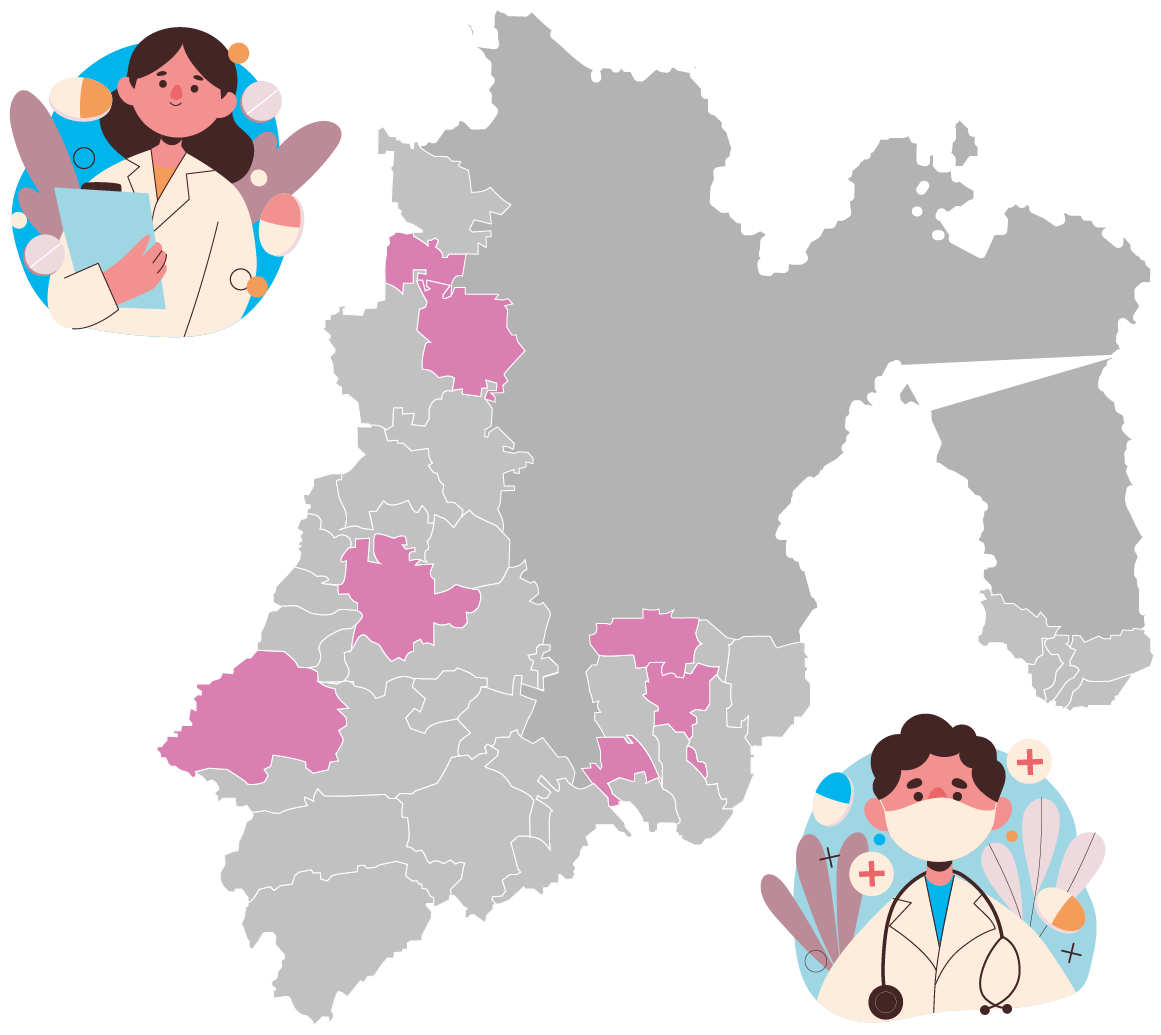
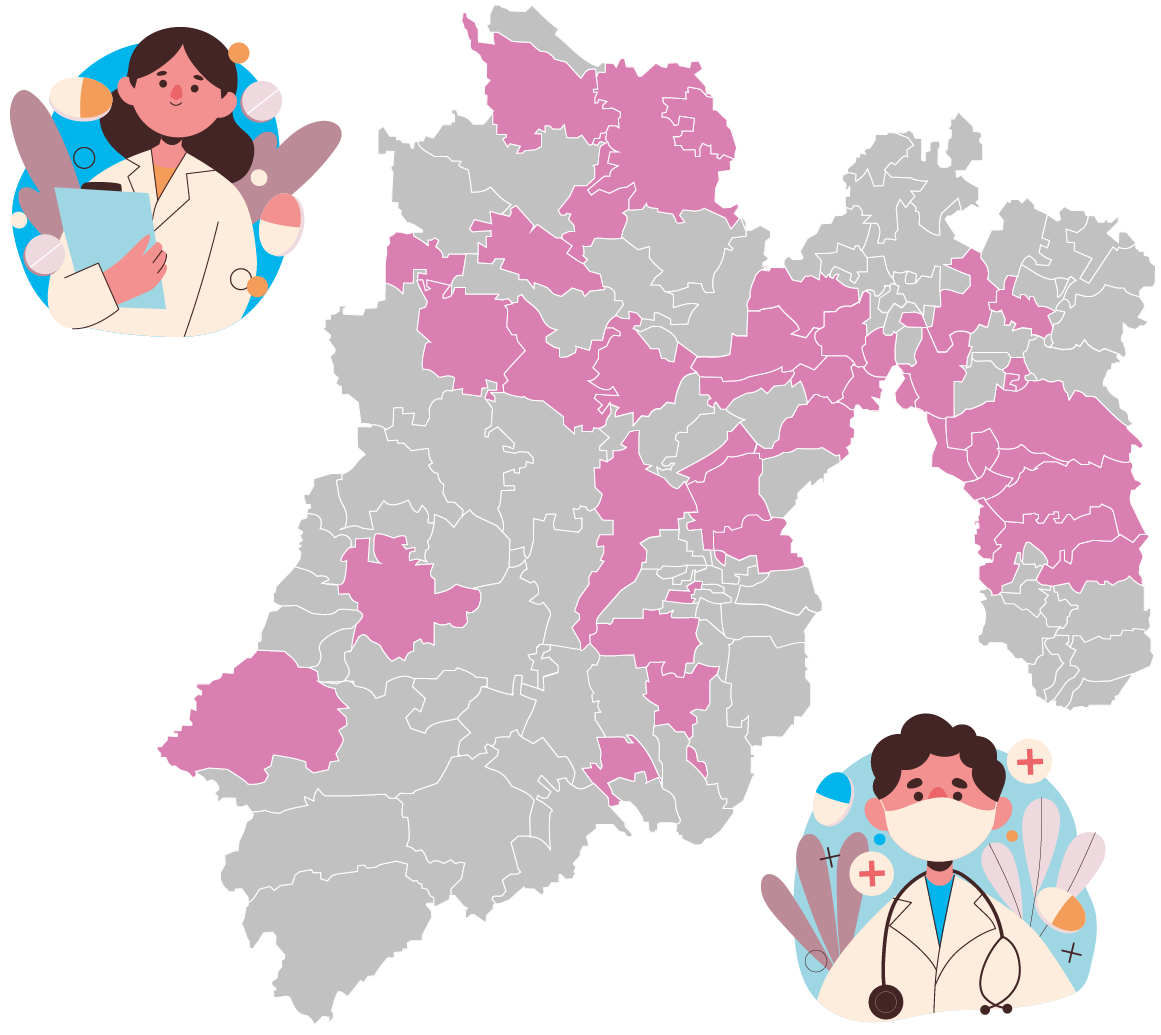
estilo

Changed region(s): [[0.3721, 0.0, 1.0, 0.6493], [0.8372, 0.8657, 0.8682, 0.8966]]

diff --git a/resources/views/pages/salud.blade.php b/resources/views/pages/salud.blade.php
@@ -170,7 +170,7 @@
                 <div class="columns w-row">
                     <div class="column w-col w-col-6"><img src="{{asset('assets/salud/images/dcotr.png')}}" loading="lazy" alt="" class="image-6"></div>
                     <div class="w-col w-col-6">
-                        <p class="texto-grande">También en materia de salud, la LXII Legislatura mexiquense aprobó reformas a la Ley del Trabajo de los Servidores Públicos del Estado y Municipios para que las personas servidoras públicas cuenten con un día de permiso anual con goce íntegro de salario para realizarse estudios médicos preventivos.</p>
+                        <p class="texto-general">También en materia de salud, la LXII Legislatura mexiquense aprobó reformas a la Ley del Trabajo de los Servidores Públicos del Estado y Municipios para que las personas servidoras públicas cuenten con un día de permiso anual con goce íntegro de salario para realizarse estudios médicos preventivos.</p>
                     </div>
                 </div>
             </div>
@@ -186,7 +186,7 @@
             <div>
                 <div class="columns w-row">
                     <div class="column w-col w-col-6">
-                        <p class="texto-grande">Por otro lado, para fortalecer los servicios de salud estatal y garantizar atención médica continua —incluyendo detección y tratamiento— y libre de discriminación para personas con enfermedades de transmisión sexual y con virus de la inmunodeﬁciencia humana (VIH), el Congreso mexiquense aprobó reformas al Código Administrativo; la Ley de Educación, Cultura, Ciencia y Tecnología; y la Ley para Prevenir, Combatir y Eliminar Actos de Discriminación, todas del ámbito estatal.</p>
+                        <p class="texto-general">Por otro lado, para fortalecer los servicios de salud estatal y garantizar atención médica continua —incluyendo detección y tratamiento— y libre de discriminación para personas con enfermedades de transmisión sexual y con virus de la inmunodeﬁciencia humana (VIH), el Congreso mexiquense aprobó reformas al Código Administrativo; la Ley de Educación, Cultura, Ciencia y Tecnología; y la Ley para Prevenir, Combatir y Eliminar Actos de Discriminación, todas del ámbito estatal.</p>
                     </div>
                     <div class="column-2 w-col w-col-6"><img src="{{asset('assets/salud/images/Liston_.png')}}" loading="lazy" alt="" class="image-6"></div>
                 </div>
